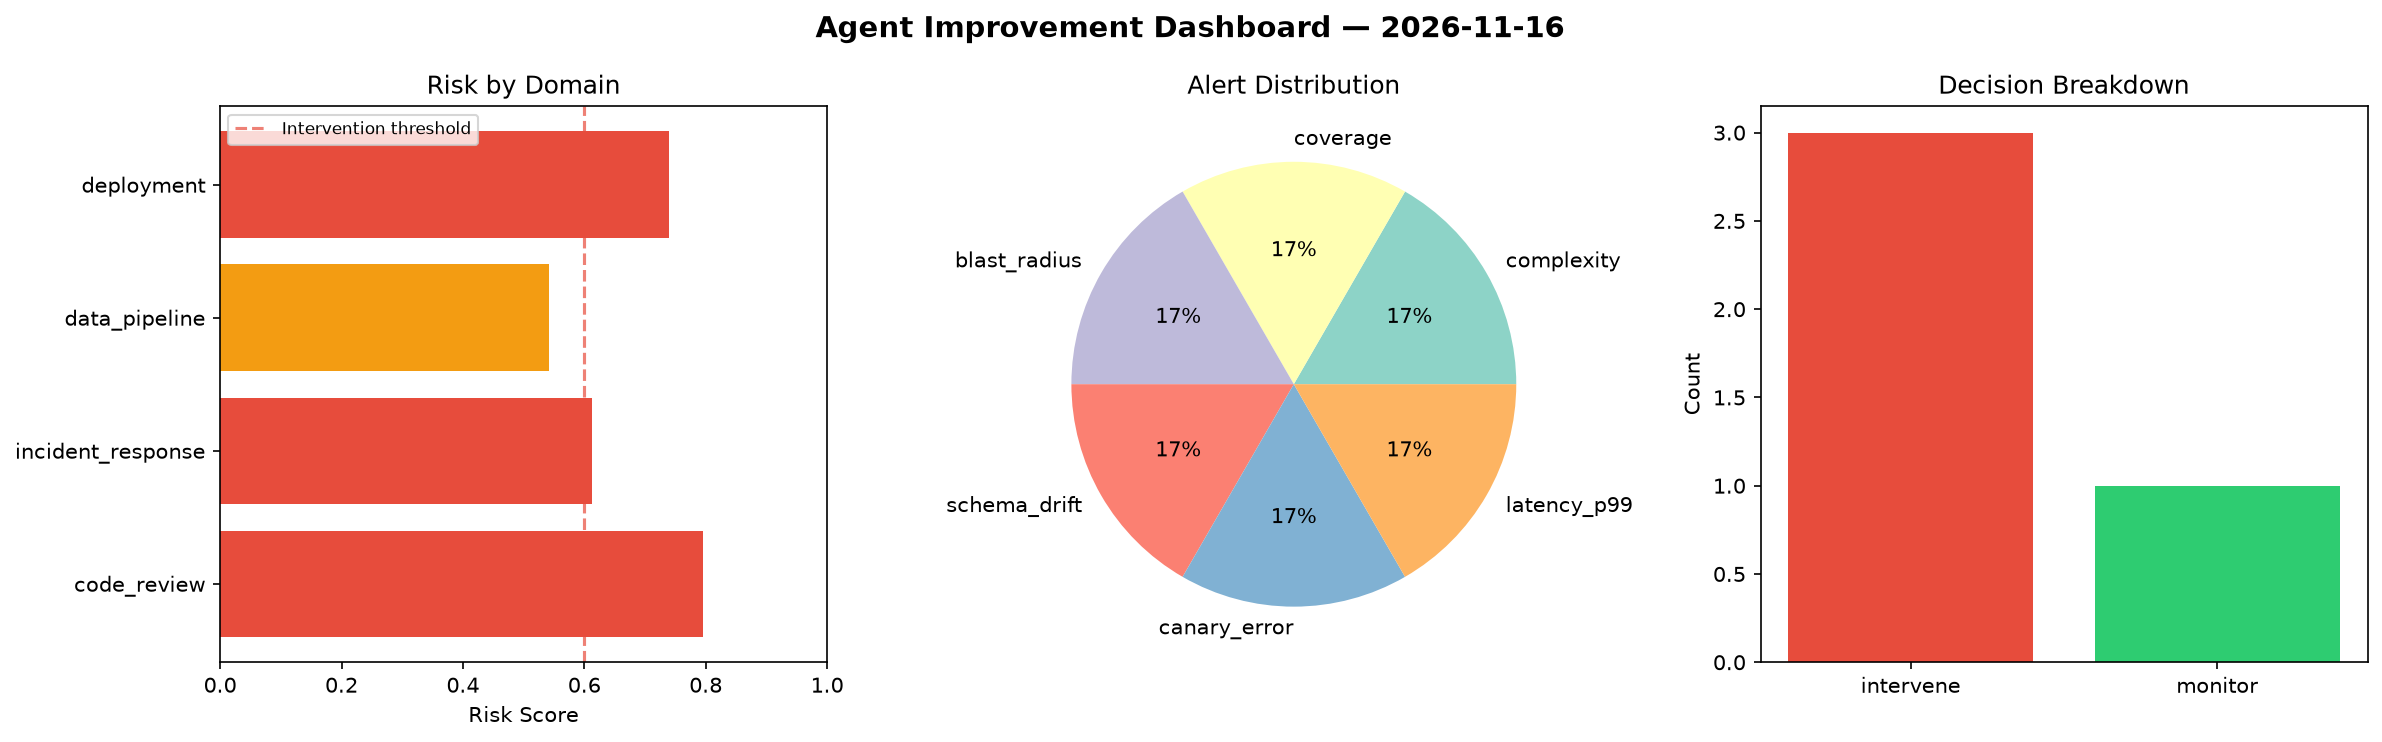
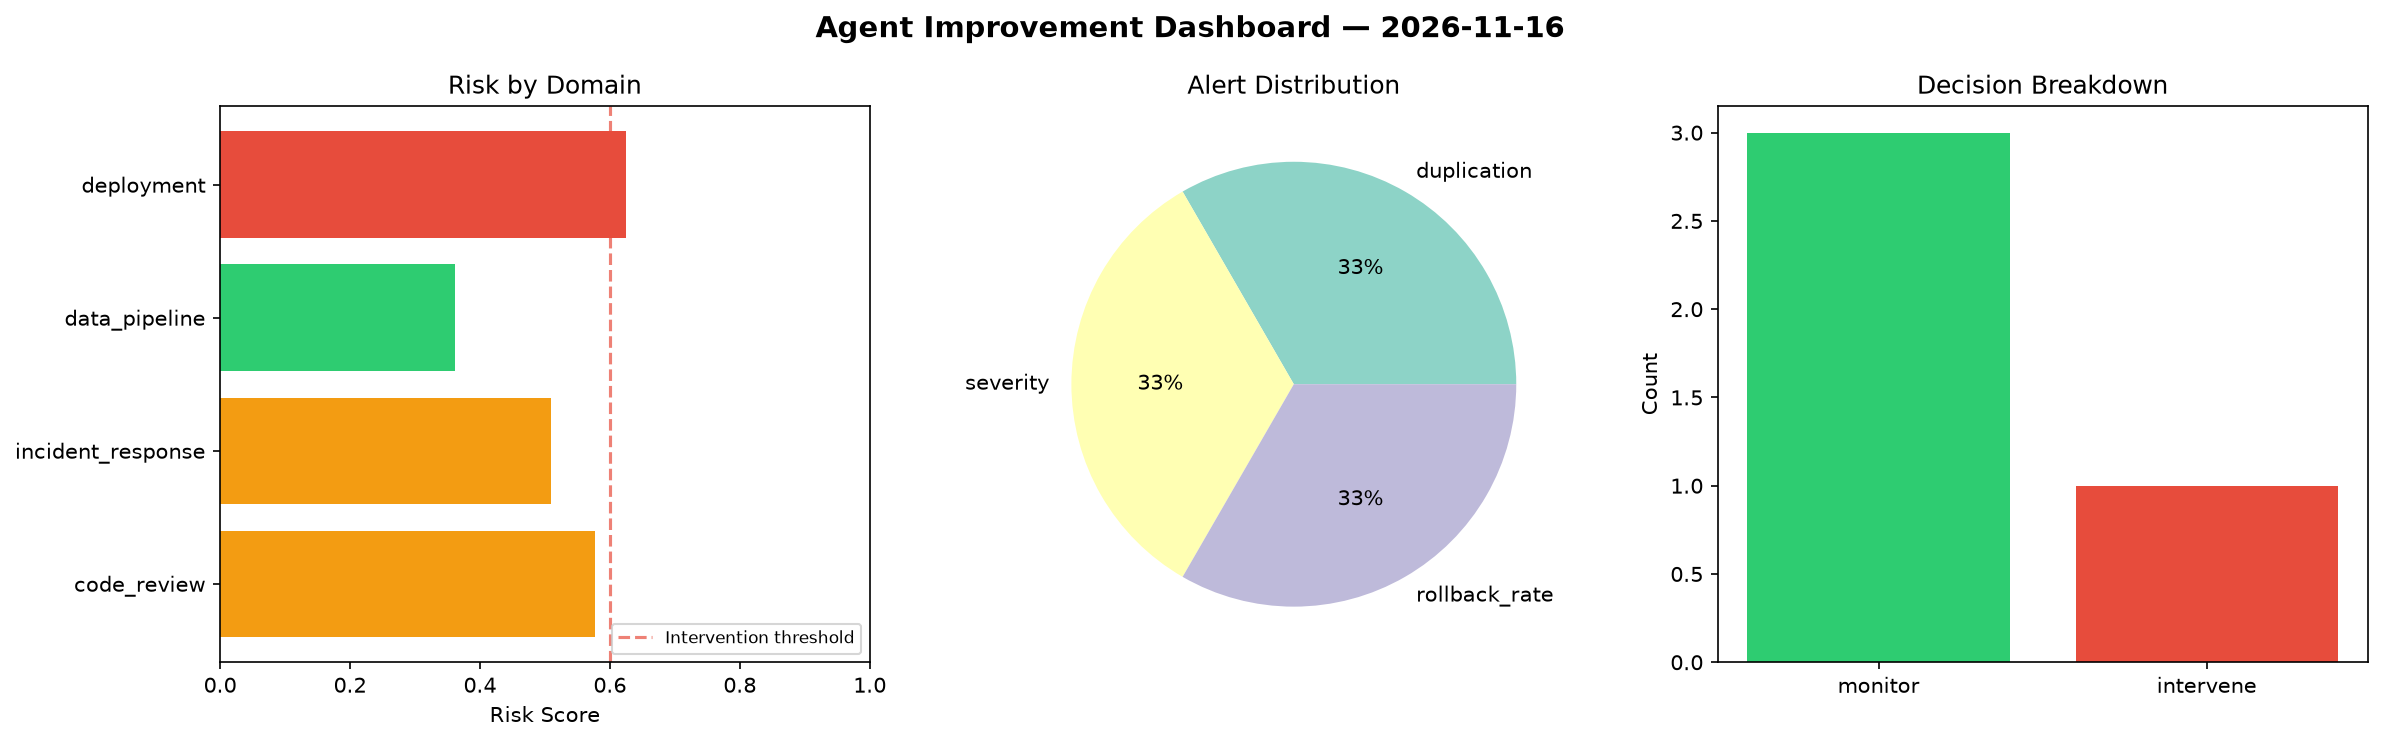
agent-improvement: daily cycle 2026-11-16T18:31

diff --git a/logs/2026-11-16.md b/logs/2026-11-16.md
@@ -1,6 +1,6 @@
 # Agent Improvement Report — 2026-11-16
 
-**Cycle ID:** `90af8192` | **Avg Risk:** 0.6723 | **Interventions:** 3/4
+**Cycle ID:** `2b963c49` | **Avg Risk:** 0.5177 | **Interventions:** 1/4
 
 ![Dashboard](2026-11-16_dashboard.png)
 
@@ -10,18 +10,18 @@
 
 | Domain | Risk Score | Decision | Alerts |
 |--------|-----------|----------|--------|
-| code_review | 0.7951 | intervene | complexity, coverage |
-| incident_response | 0.612 | intervene | blast_radius |
-| data_pipeline | 0.5422 | monitor | schema_drift |
-| deployment | 0.7399 | intervene | canary_error, latency_p99 |
+| code_review | 0.5764 | monitor | duplication |
+| incident_response | 0.5091 | monitor | severity |
+| data_pipeline | 0.3611 | monitor | none |
+| deployment | 0.6242 | intervene | rollback_rate |
 
 ## Delta vs Yesterday
 
 | Domain | Today | Yesterday | Change |
 |--------|-------|-----------|--------|
-| code_review | 0.7951 | 0.6321 | 📈 25.8% |
-| incident_response | 0.612 | 0.5354 | 📈 14.3% |
-| data_pipeline | 0.5422 | 0.2679 | 📈 102.4% |
-| deployment | 0.7399 | 0.4802 | 📈 54.1% |
+| code_review | 0.5764 | 0.6321 | 📉 -8.8% |
+| incident_response | 0.5091 | 0.5354 | 📉 -4.9% |
+| data_pipeline | 0.3611 | 0.2679 | 📈 34.8% |
+| deployment | 0.6242 | 0.4802 | 📈 30.0% |
 
-**Refinement:** `{'adjustment': 'maintain', 'trend': 'improving', 'window': 4}`
+**Refinement:** `{'adjustment': 'tighten_thresholds', 'trend': 'degrading', 'window': 4}`
